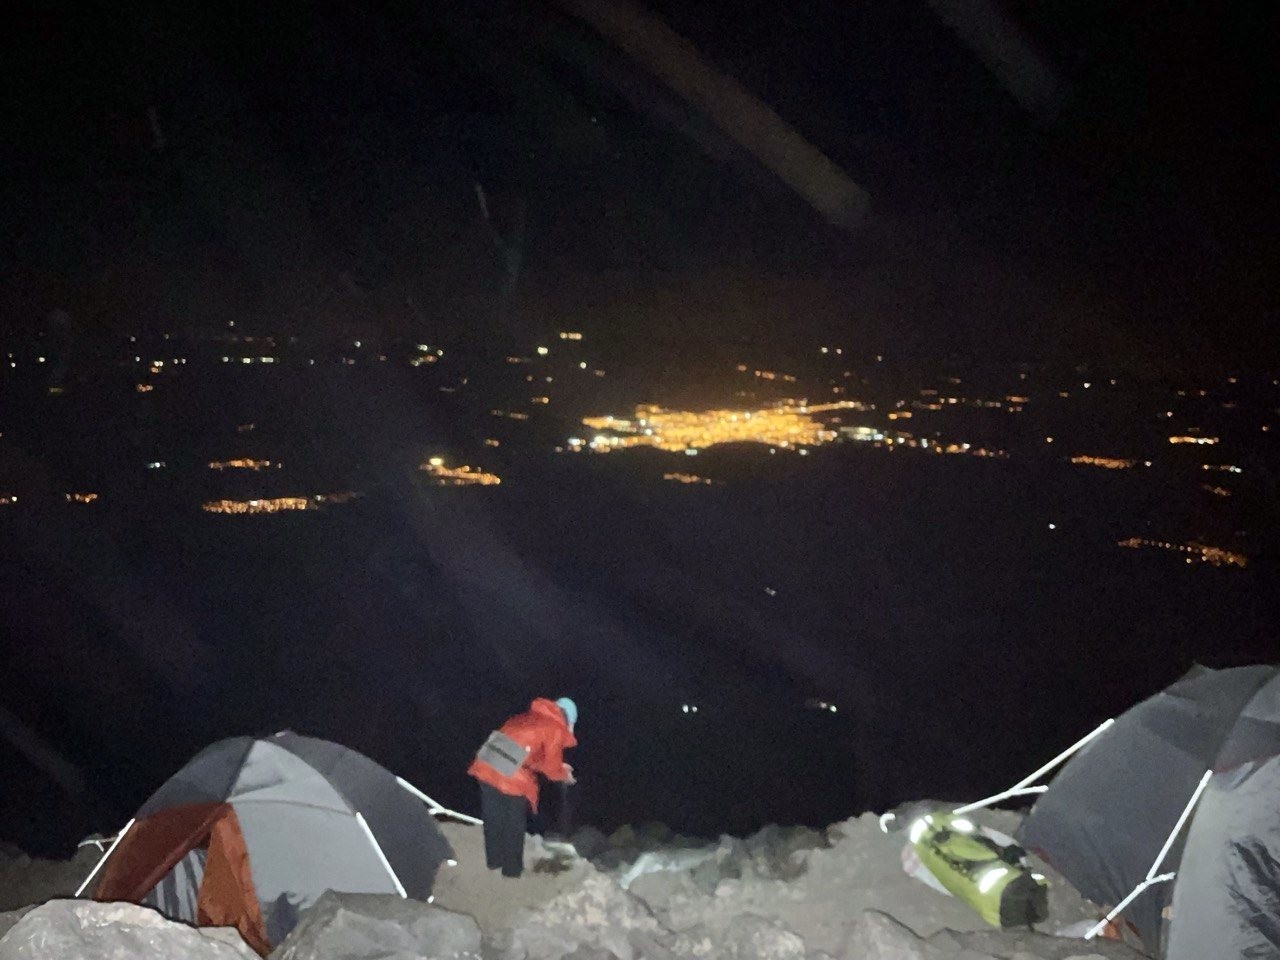
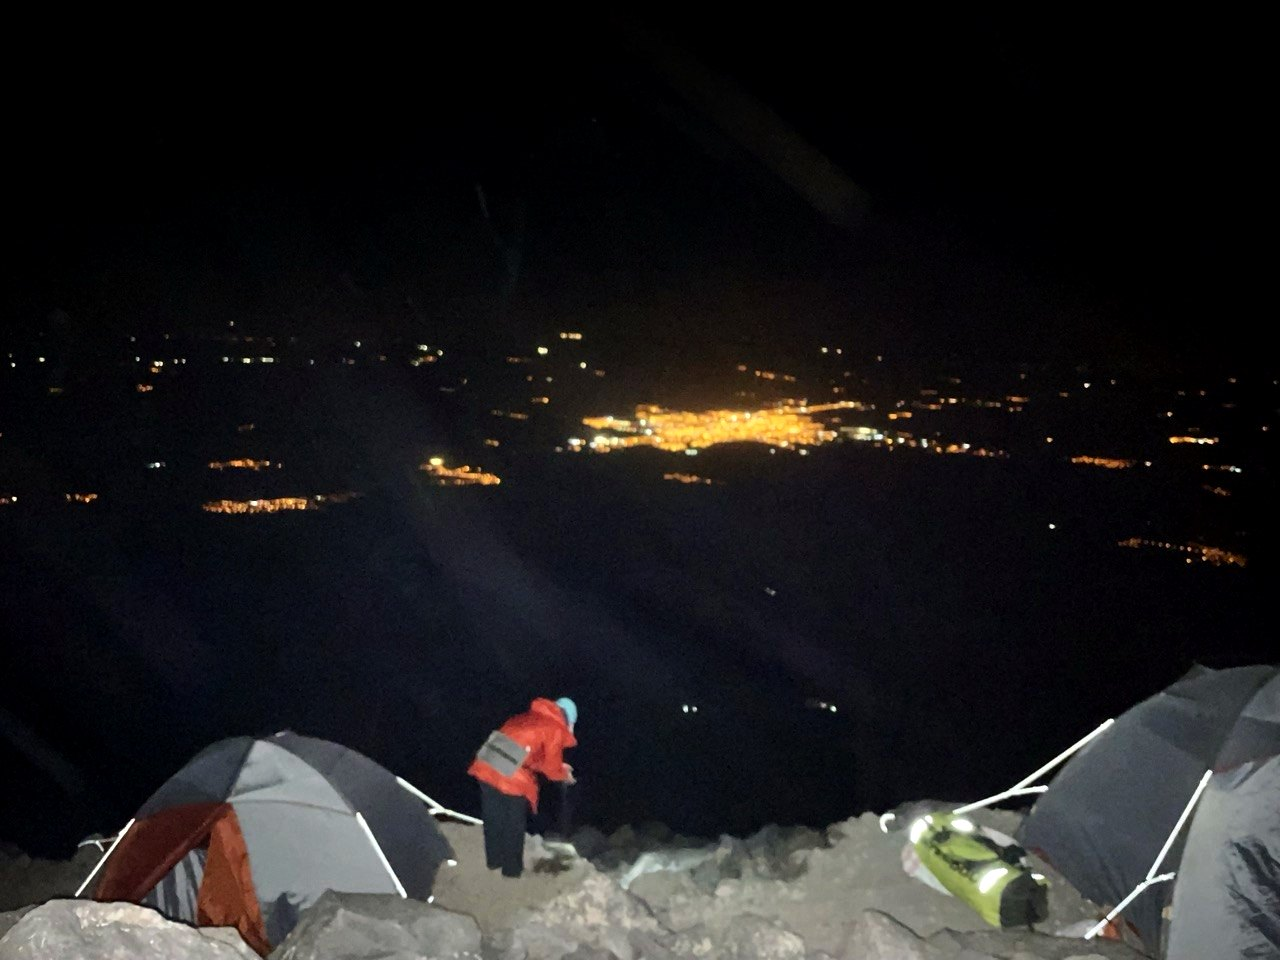
Ararat: day 1 photo, darker night camp sky, hero returns to photo after the clip
Claude-Session: https://claude.ai/code/session_01UELaXKaEtKLHJMR8bpMREh

Changed region(s): [[0.4375, 0.0, 0.6875, 0.2188], [0.75, 0.0, 0.7812, 0.0312]]

diff --git a/ararat/index.html b/ararat/index.html
@@ -217,7 +217,7 @@ details p{margin-top:10px;color:var(--muted);max-width:62ch}
 </div></header>
 
 <section class="hero" id="top">
-  <div class="hero-media" aria-hidden="true"><img src="img/glacier.jpg" alt="" style="object-position:45% 50%"><video src="vid/hero.mp4" muted loop playsinline preload="metadata"></video></div>
+  <div class="hero-media" aria-hidden="true"><img src="img/glacier.jpg" alt="" style="object-position:45% 50%"><video src="vid/hero.mp4" muted playsinline preload="metadata"></video></div>
   <div class="wrap">
     <span class="alt"><span lang="ru">Из Еревана · 6 дней · июль — сентябрь</span><span lang="en">From Yerevan · 6 days · July — September</span><span lang="hy">Երևանից · 6 օր · հուլիս — սեպտեմբեր</span></span>
     <h1><span lang="ru">Арарат<br><em>5 137 м</em></span><span lang="en">Ararat<br><em>5,137 m</em></span><span lang="hy">Արարատ<br><em>5 137 մ</em></span></h1>
@@ -239,7 +239,7 @@ details p{margin-top:10px;color:var(--muted);max-width:62ch}
   <p class="lead"><span lang="ru">Тяжёлые вещи до лагерей везут лошади. На штурм выходим ночью, последний участок — по леднику в кошках.</span><span lang="en">Horses carry the heavy gear up to the camps. We set off for the summit at night; the last stretch is on the glacier in crampons.</span><span lang="hy">Ծանր իրերը մինչև ճամբարներ տանում են ձիերը։ Գագաթ ենք դուրս գալիս գիշերը, վերջին հատվածը՝ սառցադաշտով, կատվաճանկերով։</span></p>
   <div class="dgrid">
     <article class="dc">
-      <span class="dimg"><img src="img/dusk.jpg" alt="Вечерние огни долины под Араратом" loading="lazy"></span>
+      <span class="dimg"><img src="img/road.jpg" alt="Арарат из Армении — с этого вида начинается путь" loading="lazy"></span>
       <div class="dn">01</div>
       <h3><span lang="ru">Ереван — Догубаязит</span><span lang="en">Yerevan — Doğubayazıt</span><span lang="hy">Երևան — Դողուբայազիդ</span></h3>
       <p><span lang="ru">Наш минивэн везёт через Гюмри и Грузию до турецкой границы, там пересаживаемся на турецкий. По желанию — остановка в Ани. Ужин в гостинице и брифинг.</span><span lang="en">Our minivan drives via Gyumri and Georgia to the Turkish border, where we switch to a Turkish one. Optional stop at Ani. Dinner at the hotel and a briefing.</span><span lang="hy">Մեր միկրոավտոբուսը Գյումրիով և Վրաստանով հասցնում է թուրքական սահման, այնտեղ նստում ենք թուրքականը։ Ցանկության դեպքում՝ կանգառ Անիում։ Ընթրիք հյուրանոցում և ճեպազրույց։</span></p>
@@ -398,7 +398,7 @@ details p{margin-top:10px;color:var(--muted);max-width:62ch}
   set(q||(['ru','en','hy'].indexOf(s)>=0?s:'ru'));
   btns.forEach(function(b){b.addEventListener('click',function(){set(b.dataset.l)})});
   var hero=document.querySelector('.hero'), hv=hero.querySelector('video');
-  if(hv&&!matchMedia('(prefers-reduced-motion: reduce)').matches){hv.addEventListener('playing',function(){hero.classList.add('on')});var p=hv.play();if(p&&p.catch)p.catch(function(){})}
+  if(hv&&!matchMedia('(prefers-reduced-motion: reduce)').matches){hv.addEventListener('playing',function(){hero.classList.add('on')});hv.addEventListener('ended',function(){hero.classList.remove('on')});var p=hv.play();if(p&&p.catch)p.catch(function(){})}
   var touch=matchMedia('(hover: none)').matches;
   [].slice.call(document.querySelectorAll('.hv')).forEach(function(el){var v=el.querySelector('video');if(!v)return;
     function on(){v.preload='auto';var p=v.play();if(p&&p.catch)p.catch(function(){});el.classList.add('on')}

diff --git a/tools/newtours/ararat_body.html b/tools/newtours/ararat_body.html
@@ -4,7 +4,7 @@
 </div></header>
 
 <section class="hero" id="top">
-  <div class="hero-media" aria-hidden="true"><img src="img/glacier.jpg" alt="" style="object-position:45% 50%"><video src="vid/hero.mp4" muted loop playsinline preload="metadata"></video></div>
+  <div class="hero-media" aria-hidden="true"><img src="img/glacier.jpg" alt="" style="object-position:45% 50%"><video src="vid/hero.mp4" muted playsinline preload="metadata"></video></div>
   <div class="wrap">
     <span class="alt"><span lang="ru">Из Еревана · 6 дней · июль — сентябрь</span><span lang="en">From Yerevan · 6 days · July — September</span><span lang="hy">Երևանից · 6 օր · հուլիս — սեպտեմբեր</span></span>
     <h1><span lang="ru">Арарат<br><em>5 137 м</em></span><span lang="en">Ararat<br><em>5,137 m</em></span><span lang="hy">Արարատ<br><em>5 137 մ</em></span></h1>
@@ -26,7 +26,7 @@
   <p class="lead"><span lang="ru">Тяжёлые вещи до лагерей везут лошади. На штурм выходим ночью, последний участок — по леднику в кошках.</span><span lang="en">Horses carry the heavy gear up to the camps. We set off for the summit at night; the last stretch is on the glacier in crampons.</span><span lang="hy">Ծանր իրերը մինչև ճամբարներ տանում են ձիերը։ Գագաթ ենք դուրս գալիս գիշերը, վերջին հատվածը՝ սառցադաշտով, կատվաճանկերով։</span></p>
   <div class="dgrid">
     <article class="dc">
-      <span class="dimg"><img src="img/dusk.jpg" alt="Вечерние огни долины под Араратом" loading="lazy"></span>
+      <span class="dimg"><img src="img/road.jpg" alt="Арарат из Армении — с этого вида начинается путь" loading="lazy"></span>
       <div class="dn">01</div>
       <h3><span lang="ru">Ереван — Догубаязит</span><span lang="en">Yerevan — Doğubayazıt</span><span lang="hy">Երևան — Դողուբայազիդ</span></h3>
       <p><span lang="ru">Наш минивэн везёт через Гюмри и Грузию до турецкой границы, там пересаживаемся на турецкий. По желанию — остановка в Ани. Ужин в гостинице и брифинг.</span><span lang="en">Our minivan drives via Gyumri and Georgia to the Turkish border, where we switch to a Turkish one. Optional stop at Ani. Dinner at the hotel and a briefing.</span><span lang="hy">Մեր միկրոավտոբուսը Գյումրիով և Վրաստանով հասցնում է թուրքական սահման, այնտեղ նստում ենք թուրքականը։ Ցանկության դեպքում՝ կանգառ Անիում։ Ընթրիք հյուրանոցում և ճեպազրույց։</span></p>

diff --git a/aragats/index.html b/aragats/index.html
@@ -397,7 +397,7 @@ details p{margin-top:10px;color:var(--muted);max-width:62ch}
   set(q||(['ru','en','hy'].indexOf(s)>=0?s:'ru'));
   btns.forEach(function(b){b.addEventListener('click',function(){set(b.dataset.l)})});
   var hero=document.querySelector('.hero'), hv=hero.querySelector('video');
-  if(hv&&!matchMedia('(prefers-reduced-motion: reduce)').matches){hv.addEventListener('playing',function(){hero.classList.add('on')});var p=hv.play();if(p&&p.catch)p.catch(function(){})}
+  if(hv&&!matchMedia('(prefers-reduced-motion: reduce)').matches){hv.addEventListener('playing',function(){hero.classList.add('on')});hv.addEventListener('ended',function(){hero.classList.remove('on')});var p=hv.play();if(p&&p.catch)p.catch(function(){})}
   var touch=matchMedia('(hover: none)').matches;
   [].slice.call(document.querySelectorAll('.hv')).forEach(function(el){var v=el.querySelector('video');if(!v)return;
     function on(){v.preload='auto';var p=v.play();if(p&&p.catch)p.catch(function(){});el.classList.add('on')}

diff --git a/tools/newtours/build.py b/tools/newtours/build.py
@@ -68,7 +68,7 @@ SCRIPT = '''<script>
   set(q||(['ru','en','hy'].indexOf(s)>=0?s:'ru'));
   btns.forEach(function(b){b.addEventListener('click',function(){set(b.dataset.l)})});
   var hero=document.querySelector('.hero'), hv=hero.querySelector('video');
-  if(hv&&!matchMedia('(prefers-reduced-motion: reduce)').matches){hv.addEventListener('playing',function(){hero.classList.add('on')});var p=hv.play();if(p&&p.catch)p.catch(function(){})}
+  if(hv&&!matchMedia('(prefers-reduced-motion: reduce)').matches){hv.addEventListener('playing',function(){hero.classList.add('on')});hv.addEventListener('ended',function(){hero.classList.remove('on')});var p=hv.play();if(p&&p.catch)p.catch(function(){})}
   var touch=matchMedia('(hover: none)').matches;
   [].slice.call(document.querySelectorAll('.hv')).forEach(function(el){var v=el.querySelector('video');if(!v)return;
     function on(){v.preload='auto';var p=v.play();if(p&&p.catch)p.catch(function(){});el.classList.add('on')}
